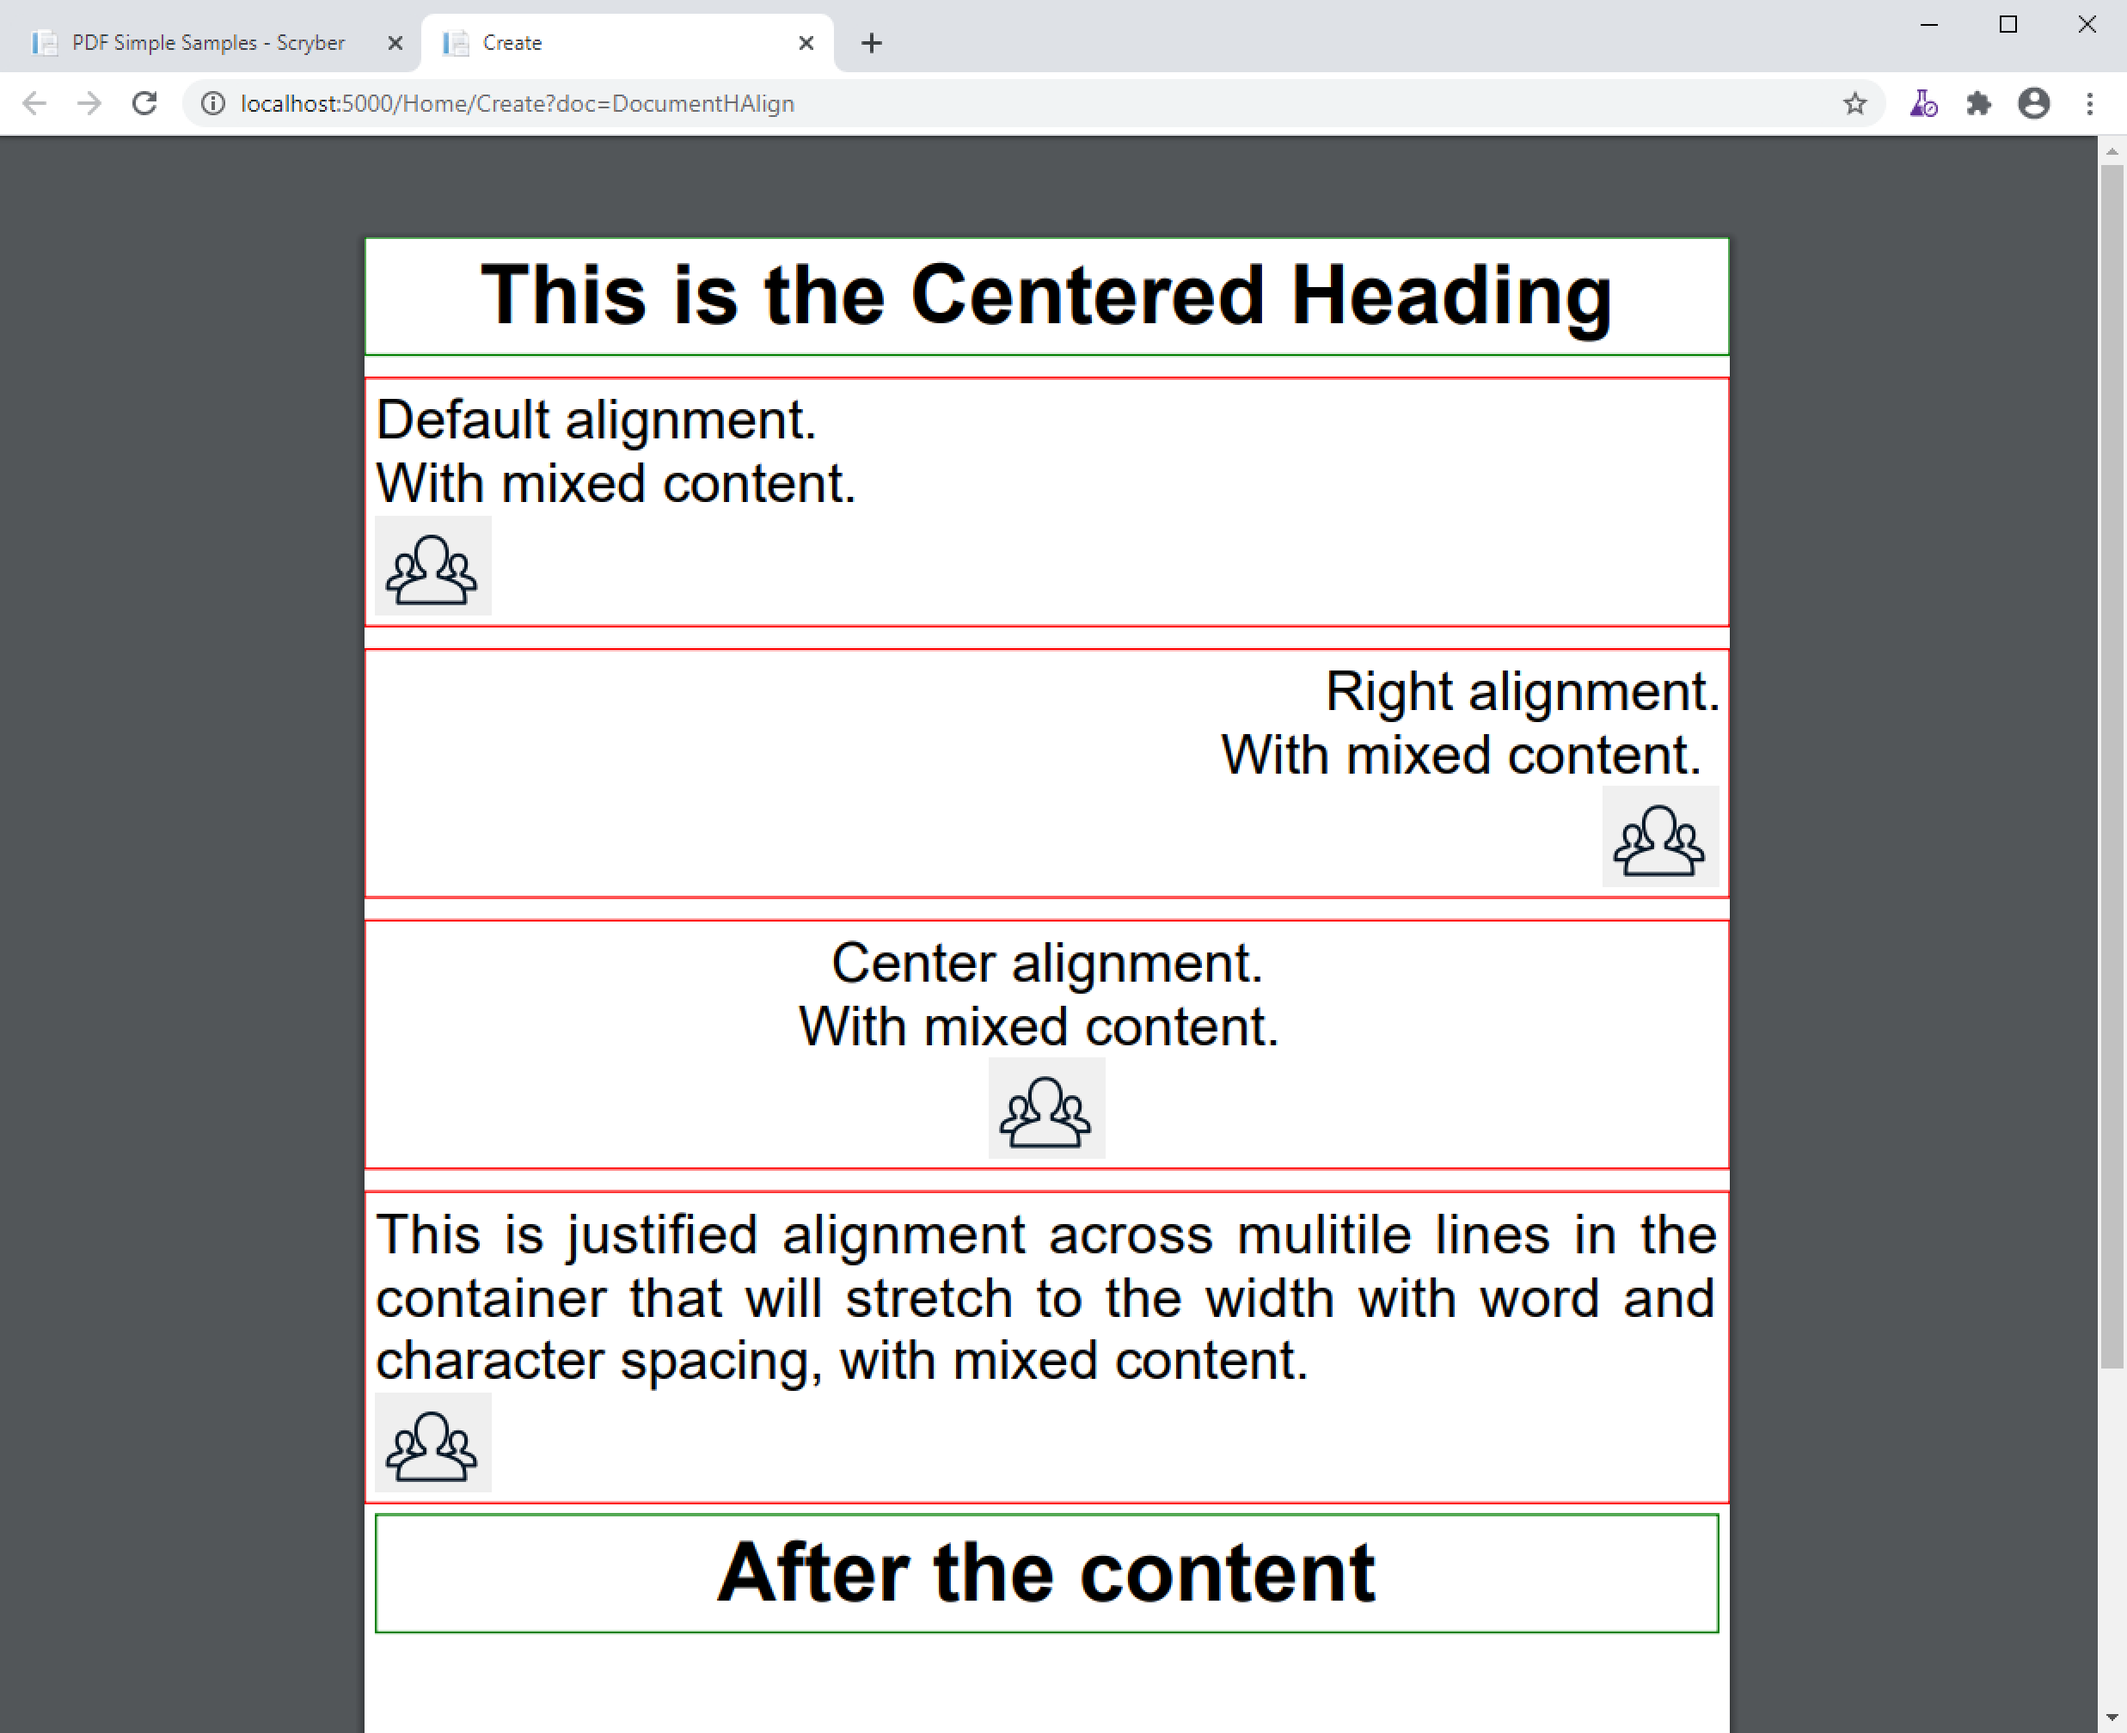
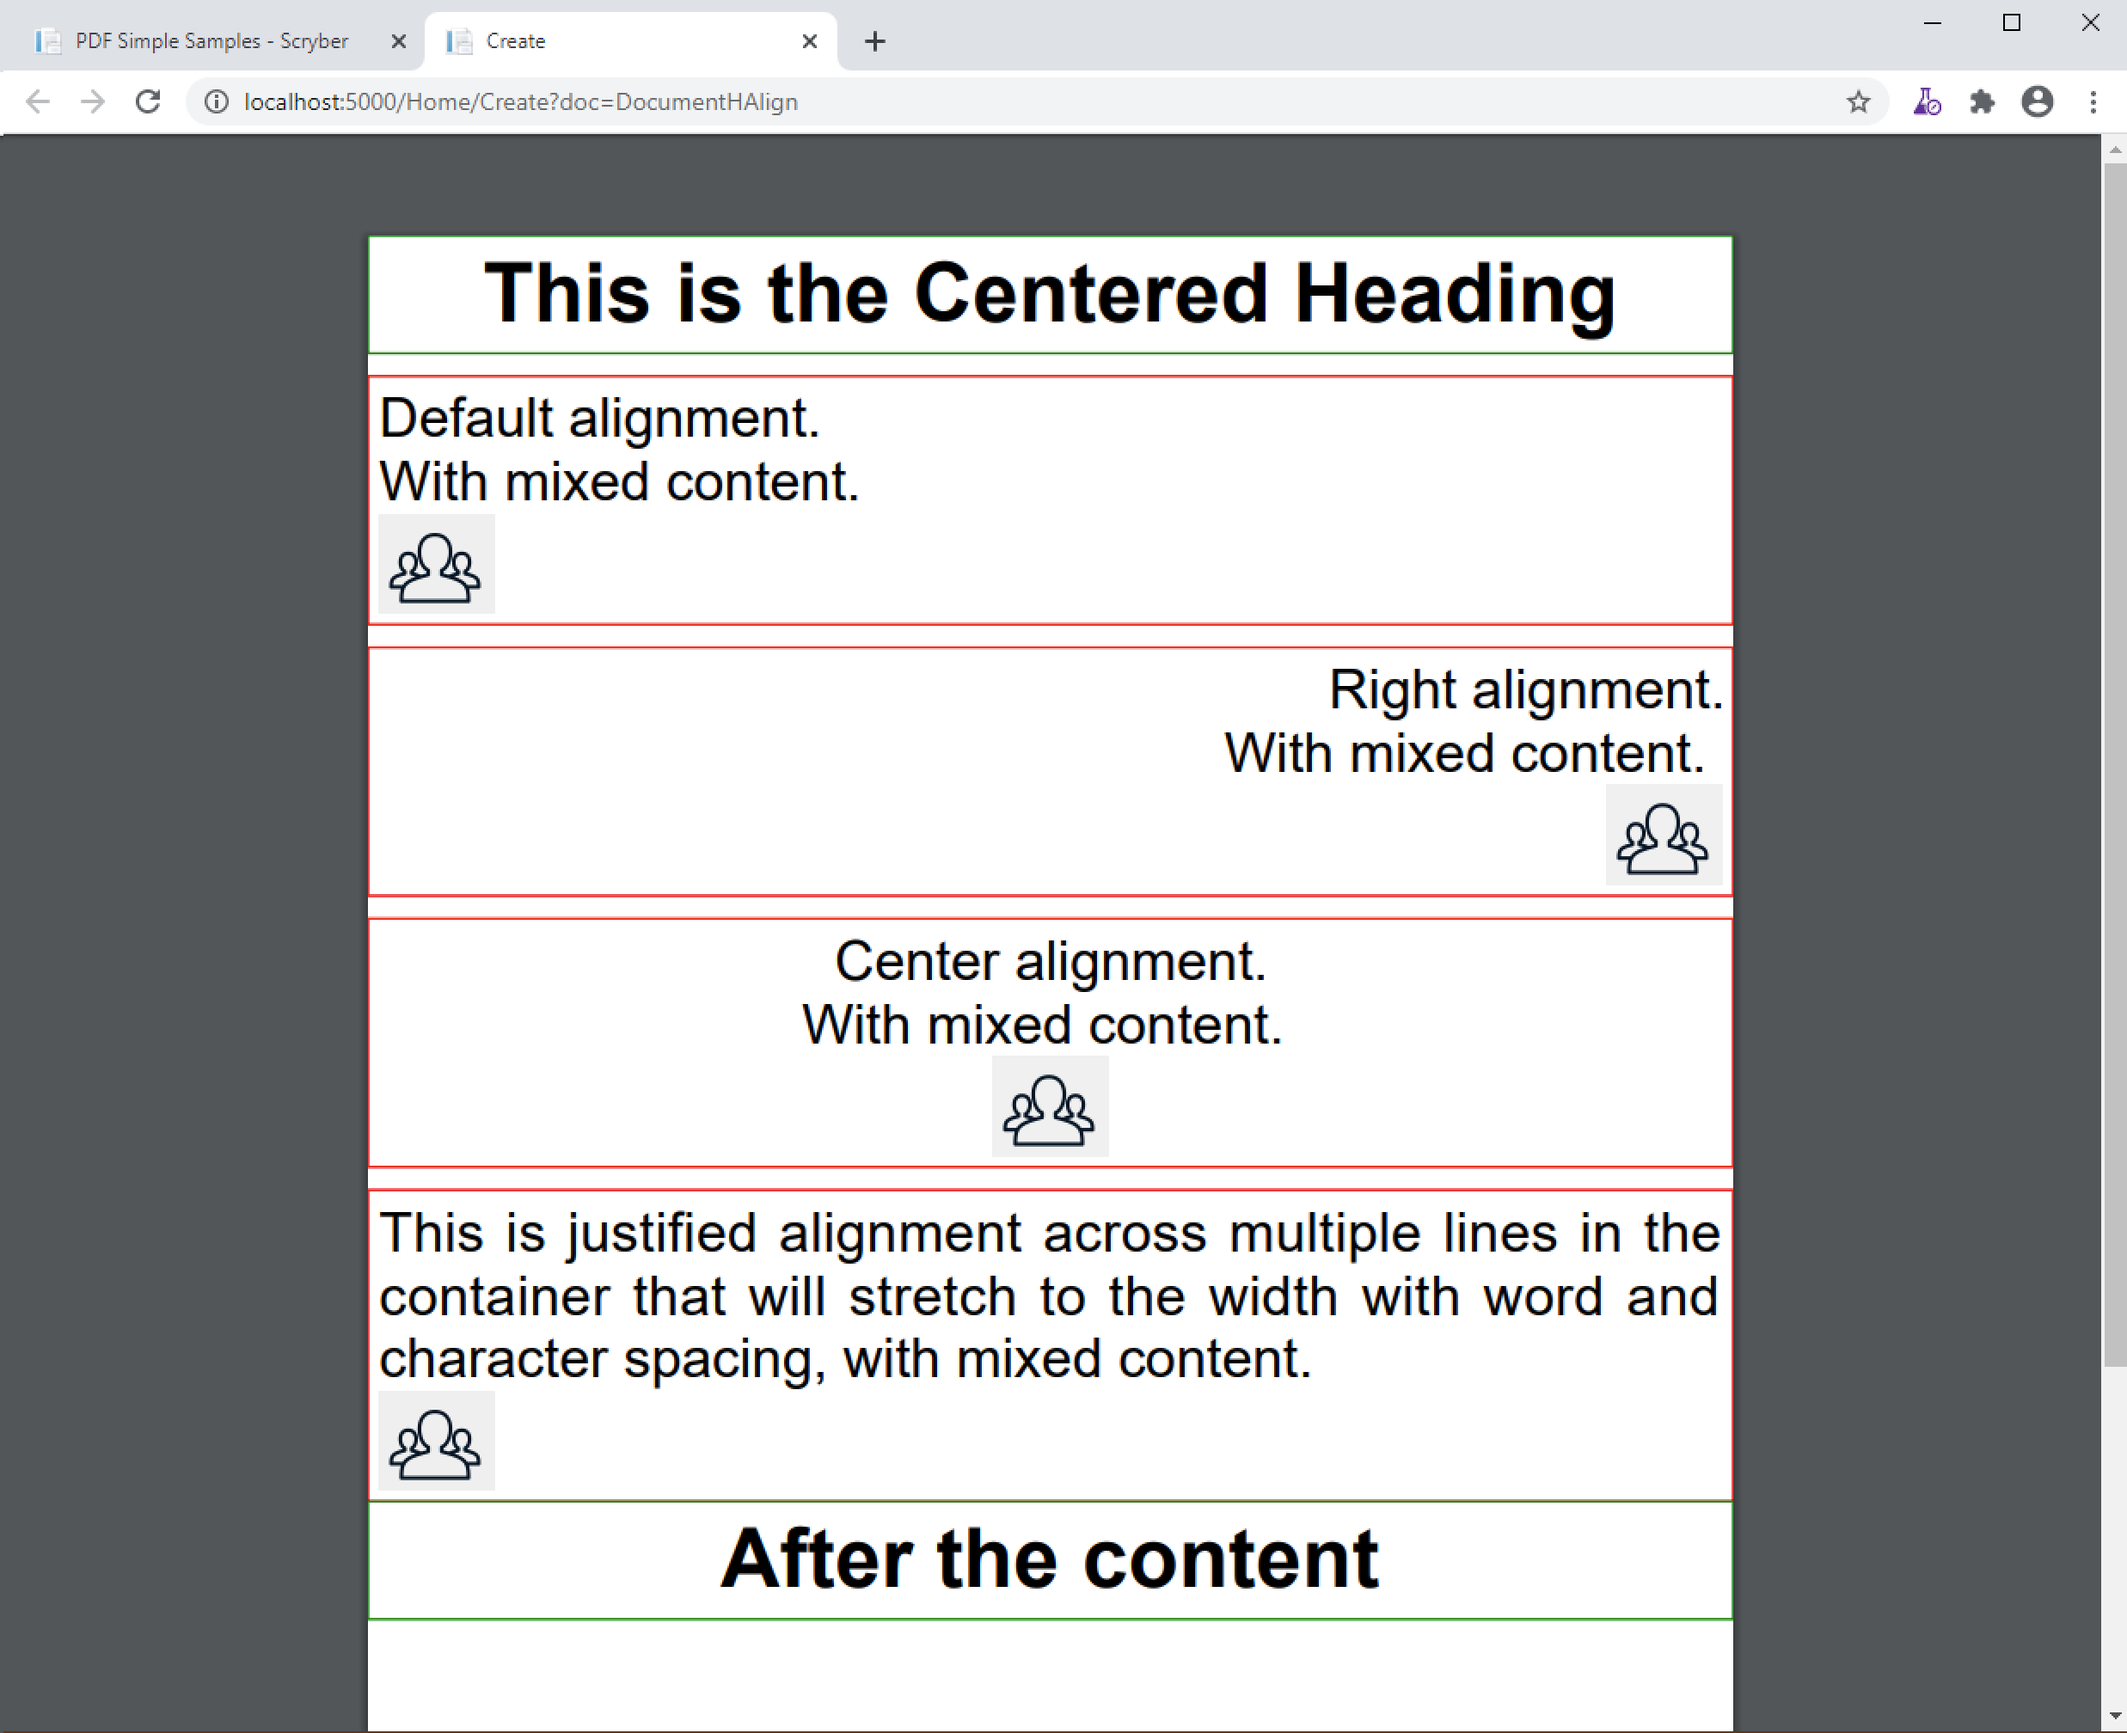
Documentation updates for content alignment

diff --git a/docs/component_alignment.rst b/docs/component_alignment.rst
@@ -60,13 +60,11 @@ The alignment of content within a page or container can either be set as the sta
                     <pdf:Image src="../../content/images/group.png" styles:width="50pt" />
                 </pdf:Div>
                 <pdf:Div styles:h-align="Justified">
-                    This is justified alignment across mulitile lines in the container that 
+                    This is justified alignment across multiple lines in the container that 
                     will stretch to the width with word and character spacing, with mixed content.
                     <pdf:Image src="../../content/images/group.png" styles:width="50pt" />
                 </pdf:Div>
-                <pdf:H1 styles:margins="5pt" styles:border-width="1pt" styles:border-color="green" >
-                    After the content
-                </pdf:H1>
+                <pdf:H1>After the content</pdf:H1>
             </Content>
         </pdf:Section>
     </Pages>
@@ -76,3 +74,135 @@ The alignment of content within a page or container can either be set as the sta
 
 .. image:: images/documenthalign.png
 
+
+Vertical alignment
+==================
+
+Along with horizontal alignment vertical alignment can be applied to the page or containers.
+
+.. code-block:: xml
+
+    <?xml version="1.0" encoding="utf-8" ?>
+    <pdf:Document xmlns:pdf="http://www.scryber.co.uk/schemas/core/release/v1/Scryber.Components.xsd"
+                xmlns:styles="http://www.scryber.co.uk/schemas/core/release/v1/Scryber.Styles.xsd"
+                xmlns:data="http://www.scryber.co.uk/schemas/core/release/v1/Scryber.Data.xsd" >
+    <Styles>
+        <styles:Style applied-type="pdf:H1" >
+            <styles:Position h-align="Center"/>
+            <styles:Border color="green" width="1pt"/>
+            <styles:Padding all="5pt"/>
+        </styles:Style>
+
+        <styles:Style applied-type="pdf:Div" >
+            <styles:Border color="red" width="1pt" />
+            <styles:Padding all="5pt"/>
+            <styles:Margins top="10pt"/>
+        </styles:Style>
+    </Styles>
+    <Pages>
+
+        <pdf:Section styles:v-align="Bottom" >
+        <Content>
+            <pdf:H1 >Page has a bottom vertical alignment</pdf:H1>
+            <pdf:Div styles:height="200pt">
+                Default top left alignment.
+                <pdf:Image src="../../content/images/group.png" styles:width="50pt" />
+            </pdf:Div>
+            <pdf:Div styles:h-align="Right" styles:v-align="Bottom" styles:height="200pt">
+                Right Bottom alignment with mixed content.
+                <pdf:Image src="../../content/images/group.png" styles:width="50pt" />
+            </pdf:Div>
+            <pdf:Div styles:h-align="Center" styles:v-align="Middle" styles:width="350pt" styles:height="200pt">
+                Center Middle alignment with fixed width and mixed content.
+                <pdf:Image src="../../content/images/group.png" styles:width="50pt" />
+            </pdf:Div>
+        </Content>
+        </pdf:Section>
+
+    </Pages>
+    
+    </pdf:Document>
+
+
+.. image:: images/documentvalign.png
+
+.. note:: With containers unless they have a specific width there gerenally will not be any vertical change. Because they shrink to their respective heights. However actual heights will support the alligment.
+
+
+
+Nested Alignment in containers
+==============================
+
+Alignment applies to the containers individually. 
+Nesting various alignment attributes on content within a page can be done, 
+and also applied to positioned components. 
+
+So complex layouts can be achieved with minimal .
+
+.. code-block:: xml
+
+    <?xml version="1.0" encoding="utf-8" ?>
+    <pdf:Document xmlns:pdf="http://www.scryber.co.uk/schemas/core/release/v1/Scryber.Components.xsd"
+                xmlns:styles="http://www.scryber.co.uk/schemas/core/release/v1/Scryber.Styles.xsd"
+                xmlns:data="http://www.scryber.co.uk/schemas/core/release/v1/Scryber.Data.xsd" >
+    <Styles>
+        <styles:Style applied-type="pdf:H1" >
+            <styles:Position h-align="Center"/>
+            <styles:Background color="#6666FF"/>
+            <styles:Fill color="white"/>
+            <styles:Font size="24pt" family="Segoe UI" bold="false" />
+            <styles:Padding all="5pt"/>
+        </styles:Style>
+
+        <styles:Style applied-type="pdf:Section" >
+            <styles:Font family="Segoe UI Light"/>
+        </styles:Style>
+
+        <styles:Style applied-class="floating" >
+            <styles:Position mode="Absolute" x="50pt" y="100pt" h-align="Center" v-align="Bottom"/>
+            <styles:Size width="200pt" height="200pt"/>
+            <styles:Background color="#6666FF" img-src="../../content/images/landscape.jpg" repeat="Fill"/>
+            <styles:Fill color="white"/>
+        </styles:Style>
+
+    </Styles>
+    <Pages>
+        <pdf:Section styles:v-align="Bottom" styles:bg-color="#DDDDFF" >
+        <Header>
+            <pdf:H1 styles:column-count="3" >
+            Nested
+            <pdf:ColumnBreak/>
+            Content
+            <pdf:ColumnBreak/>
+            Alignment
+            </pdf:H1>
+        </Header>
+        <Content>
+            <pdf:Div styles:height="400pt" styles:h-align="Right" styles:bg-color="#AAAADD">
+            <pdf:H1 styles:width="400pt" styles:h-align="Left">
+                The alignment of a page content.
+            </pdf:H1>
+            </pdf:Div>
+
+            <pdf:Div styles:class="floating">
+            <pdf:Div styles:bg-color="#6666FF" styles:font-size="16pt" styles:h-align="Center" styles:padding="5pt">
+                Pushing to absolute.
+            </pdf:Div>
+            </pdf:Div>
+        </Content>
+        <Footer>
+            <pdf:H1 styles:column-count="3" styles:font-size="10pt" styles:height="40pt" styles:v-align="Middle" >
+                Accounts
+                <pdf:ColumnBreak/>
+                For Columns
+                <pdf:ColumnBreak/>
+                And Footers
+            </pdf:H1>
+        </Footer>
+        </pdf:Section>
+    </Pages>
+    
+    </pdf:Document>
+
+
+.. image:: images/documentnestedalign.png
